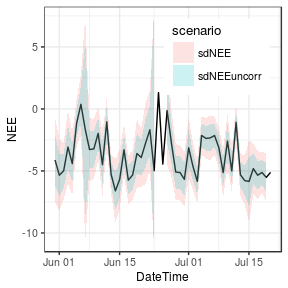
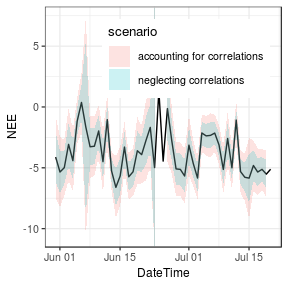
extend derivation in uncertainty aggregation vignette

diff --git a/vignettes/aggUncertainty.md b/vignettes/aggUncertainty.md
@@ -1,168 +1,215 @@
-Aggregating uncertainty to daily and annual values
-==================================================
+---
+output: 
+  rmarkdown::html_vignette:
+    keep_md: true
+vignette: >
+  %\VignetteEngine{knitr::rmarkdown_notangle}
+  %\VignetteIndexEntry{typical use case}
+  %\usepackage[UTF-8]{inputenc}
+---
 
-Example setup
--------------
 
-We start with half-hourly *u*<sub>\*</sub>-filtered and gap-filled
-NEE\_f values. For simplicity this example uses data provided with the
-package and omits *u*<sub>\*</sub> threshold detection but rather
-applies a user-specified threshold.
 
-With option `FillAll = TRUE`, an uncertainty, specifically the standard
-deviation, of the flux is estimated for each record during gapfilling
-and stored in variable `NEE_uStar_fsd`.
 
-    library(REddyProc)
-    library(dplyr)
-    EddyDataWithPosix <- Example_DETha98 %>% 
-      filterLongRuns("NEE") %>% 
-      fConvertTimeToPosix('YDH',Year = 'Year',Day = 'DoY', Hour = 'Hour')
-    EProc <- sEddyProc$new(
-      'DE-Tha', EddyDataWithPosix, c('NEE','Rg','Tair','VPD', 'Ustar'))
-    EProc$sMDSGapFillAfterUstar('NEE', uStarTh = 0.3, FillAll = TRUE)
-    results <- EProc$sExportResults() 
-    summary(results$NEE_uStar_fsd)
 
-    ##     Min.  1st Qu.   Median     Mean  3rd Qu.     Max. 
-    ##  0.03535  1.69960  2.32796  2.74246  3.44417 24.55782
 
+
+
+# Aggregating uncertainty to daily and annual values
+
+## Example setup
+We start with half-hourly $u_*$-filtered and gap-filled NEE_f values. 
+For simplicity this example uses data provided with the package and omits
+$u_*$ threshold detection but rather applies a user-specified threshold.
+
+With option `FillAll = TRUE`, an uncertainty, specifically the standard deviation,
+of the flux is estimated for each 
+record during gapfilling and stored in variable `NEE_uStar_fsd`. 
+
+
+```r
+library(REddyProc)
+library(dplyr)
+EddyDataWithPosix <- Example_DETha98 %>% 
+  filterLongRuns("NEE") %>% 
+  fConvertTimeToPosix('YDH',Year = 'Year',Day = 'DoY', Hour = 'Hour')
+EProc <- sEddyProc$new(
+  'DE-Tha', EddyDataWithPosix, c('NEE','Rg','Tair','VPD', 'Ustar'))
+EProc$sMDSGapFillAfterUstar('NEE', uStarTh = 0.3, FillAll = TRUE)
+results <- EProc$sExportResults() 
+summary(results$NEE_uStar_fsd)
+```
+
+```
+##     Min.  1st Qu.   Median     Mean  3rd Qu.     Max. 
+##  0.03535  1.69960  2.32796  2.74246  3.44417 24.55782
+```
 We can inspect, how the uncertainty scales with the flux magnitude.
 
-    plot( NEE_uStar_fsd ~ NEE_uStar_fall, slice(results, sample.int(nrow(results),400)))
+```r
+plot( NEE_uStar_fsd ~ NEE_uStar_fall, slice(results, sample.int(nrow(results),400)))
+```
 
-![](aggUncertainty_files/figure-markdown_strict/unnamed-chunk-3-1.png)
+![](aggUncertainty_files/figure-html/unnamed-chunk-3-1.png)<!-- -->
 
-Wrong aggregation without correlations
---------------------------------------
+## Wrong aggregation without correlations
+With neglecting correlations among records, the uncertainty of the mean annual
+flux is computed by adding the variances. 
+The mean is computed by $m = \sum{x_i}/n$. 
+And hence its standard deviation by 
+$sd(m) = \sqrt{Var(m)}= \sqrt{\sum{Var(x_i)}/n^2} = \sqrt{n \bar{\sigma^2}/n^2} = \bar{\sigma^2}/\sqrt{n}$. 
+This results in an aprroximate reduction of the average standard deviation 
+$\bar{\sigma^2}$ by $\sqrt{n}$.
 
-With neglecting correlations among records, the uncertainty of the mean
-annual flux is computed by adding the variances. The mean is computed by
-*m* = ∑*x*<sub>*i*</sub>/*n*. And hence its standard deviation by
-$sd(m) = \\sqrt{Var(m)}= \\sqrt{\\sum{Var(x\_i)}/n^2}$. This results in
-an aprroximate reduction of the standard deviation by $\\sqrt{n}$.
 
-    results %>% filter(NEE_uStar_fqc == 0) %>% summarise(
-      nRec = sum(is.finite(NEE_uStar_f))
-      , varSum = sum(NEE_uStar_fsd^2, na.rm = TRUE)
-      , seMean = sqrt(varSum) / nRec
-      , seMeanApprox = mean(NEE_uStar_fsd, na.rma = TRUE) / sqrt(nRec)
-      ) %>% select(nRec, seMean, seMeanApprox)
+```r
+results %>% filter(NEE_uStar_fqc == 0) %>% summarise(
+  nRec = sum(is.finite(NEE_uStar_f))
+  , varSum = sum(NEE_uStar_fsd^2, na.rm = TRUE)
+  , seMean = sqrt(varSum) / nRec
+  , seMeanApprox = mean(NEE_uStar_fsd, na.rma = TRUE) / sqrt(nRec)
+  ) %>% select(nRec, seMean, seMeanApprox)
+```
 
-    ##    nRec     seMean seMeanApprox
-    ## 1 10901 0.02988839   0.02650074
+```
+##    nRec     seMean seMeanApprox
+## 1 10901 0.02988839   0.02650074
+```
+Due to the large number of records, the estimated uncertainty is very low.
 
-Due to the large number of records, the estimated uncertainty is very
-low.
+## Considering correlations
 
-Considering correlations
-------------------------
+When observations are not independent of each other, 
+the formulas now become $Var(m) = s^2/n_{eff}$ where
+$s^2 = \frac{n_{eff}}{n(n_{eff}-1)} \sum_{i=1}^n \sigma_i^2$,
+and with the number of effective observations $n_{eff}$ decreasing with the
+autocorrelation among records (Bayley 1946, Zieba 2011).
 
-When observations are not independent of each other, the formulas now
-become
-*V**a**r*(*m*)=*V**a**r*(∑*x*<sub>*i*</sub>)/*n*<sub>*e**f**f*</sub> and
-$\\operatorname{Var}(\\sum{x\_i}) = \\frac{n\_{eff}}{n(n\_{eff}-1)} \\sum\_{i=1}^n \\sigma\_i^2$,
-with the number of effective observations *n*<sub>*e**f**f*</sub>
-decreasing with the autocorrelation among records (Bayley 1946, Zieba
-2011).
+The average standard deviation $\sqrt{\bar{\sigma^2_i}}$ 
+now approximately decreases only by about 
+$\sqrt{n_{eff}}$:
 
-The standard deviation now approximately decreases only by
-$\\sqrt{n\_{eff}}$.
+$$
+Var(m) = \frac{s^2}{n_{eff}} 
+= \frac{\frac{n_{eff}}{n(n_{eff}-1)} \sum_{i=1}^n \sigma_i^2}{n_{eff}}
+= \frac{1}{n(n_{eff}-1)} \sum_{i=1}^n \sigma_i^2 \\
+= \frac{1}{n(n_{eff}-1)} n \bar{\sigma^2_i} = \frac{\bar{\sigma^2_i}}{(n_{eff}-1)} 
+$$
 
-First we need to quantify the error terms, i.e. model-data residuals.
-For all the records of good quality, we have an original measured value
-`NEE_uStar_orig` and modelled value from MDS gapfilling,
+First we need to quantify the error terms, i.e. model-data residuals. 
+For all the records of good quality, we have an original
+measured value `NEE_uStar_orig` and modelled value from MDS gapfilling, 
 `NEE_uStar_fall`. The residual of bad-quality data is set to missing.
 
-    results <- EProc$sExportResults() %>% 
-      mutate(
-        resid = ifelse(NEE_uStar_fqc == 0, NEE_uStar_orig - NEE_uStar_fall, NA )
-      )
+
+```r
+results <- EProc$sExportResults() %>% 
+  mutate(
+    resid = ifelse(NEE_uStar_fqc == 0, NEE_uStar_orig - NEE_uStar_fall, NA )
+  )
+```
 
 Now we can inspect the the autocorrelation of the errors.
 
-    acf(results$resid, na.action = na.pass, main = "")
+```r
+acf(results$resid, na.action = na.pass, main = "")
+```
 
-![](aggUncertainty_files/figure-markdown_strict/unnamed-chunk-6-1.png)
+![](aggUncertainty_files/figure-html/unnamed-chunk-6-1.png)<!-- -->
 
-The empricical autocorrelation function shows strong positive
-autocorrelation in residuals up to a lag of 10 records.
+The empricical autocorrelation function shows strong positive autocorrelation 
+in residuals up to a lag of 10 records.
 
-Computation of effective number of observations is provided by function
-`computeEffectiveNumObs` from package `lognorm` based on the emprical
+Computation of effective number of observations is provided by function 
+`computeEffectiveNumObs` from package `lognorm` based on the emprical 
 autocorrelation function for given model-data residuals.
 
-    library(lognorm)
-    autoCorr <- computeEffectiveAutoCorr(results$resid)
-    nEff <- computeEffectiveNumObs(results$resid, na.rm = TRUE)
-    c( nEff = nEff, nObs = sum(is.finite(results$resid)))
 
-    ##      nEff      nObs 
-    ##  3870.283 10901.000
+```r
+library(lognorm)
+autoCorr <- computeEffectiveAutoCorr(results$resid)
+nEff <- computeEffectiveNumObs(results$resid, na.rm = TRUE)
+c( nEff = nEff, nObs = sum(is.finite(results$resid)))
+```
 
-We see that the effective number of observations is only about a third
-of the number of observations.
+```
+##      nEff      nObs 
+##  3870.283 10901.000
+```
 
-Now we can use the formulas for the sum and the mean of correlated
-normally distributed variables to compute the uncertainty of the mean.
+We see that the effective number of observations is only about a third of the 
+number of observations.
 
-    results %>% filter(NEE_uStar_fqc == 0) %>% summarise(
-      nRec = sum(is.finite(NEE_uStar_fsd))
-      , varMean = sum(NEE_uStar_fsd^2, na.rm = TRUE) / nRec / (!!nEff - 1)
-      , seMean = sqrt(varMean) 
-      #, seMean2 = sqrt(mean(NEE_uStar_fsd^2, na.rm = TRUE)) / sqrt(!!nEff - 1)
-      , seMeanApprox = mean(NEE_uStar_fsd, na.rm = TRUE) / sqrt(!!nEff - 1)
-      ) %>% select(seMean, seMeanApprox)
+Now we can use the formulas for the sum and the mean of correlated normally 
+distributed variables to compute the uncertainty of the mean.
 
-    ##       seMean seMeanApprox
-    ## 1 0.05016727   0.04448115
 
-Daily aggregation
------------------
+```r
+results %>% filter(NEE_uStar_fqc == 0) %>% summarise(
+  nRec = sum(is.finite(NEE_uStar_fsd))
+  , varMean = sum(NEE_uStar_fsd^2, na.rm = TRUE) / nRec / (!!nEff - 1)
+  , seMean = sqrt(varMean) 
+  #, seMean2 = sqrt(mean(NEE_uStar_fsd^2, na.rm = TRUE)) / sqrt(!!nEff - 1)
+  , seMeanApprox = mean(NEE_uStar_fsd, na.rm = TRUE) / sqrt(!!nEff - 1)
+  ) %>% select(seMean, seMeanApprox)
+```
+
+```
+##       seMean seMeanApprox
+## 1 0.05016727   0.04448115
+```
+
+## Daily aggregation
 
 When aggregating daily respiration, the same principles hold.
 
-However, when computing the number of effective observations, we
-recommend using the empirical autocorrelation function estimated on
-longer time series of residuals instead of estimating them each day
-(`autoCorr` computed above).
+However, when computing the number of effective observations, 
+we recommend using the empirical autocorrelation function
+estimated on longer time series of residuals (`autoCorr` computed above) 
+in `computeEffectiveNumObs` instead of estimating them 
+from the residuals of each day.
 
-    results <- results %>% mutate(
-      DateTime = EddyDataWithPosix$DateTime
-      , DoY = as.POSIXlt(DateTime - 15*60)$yday # midnight belongs to the previous
-    )
 
-    aggDay <- results %>% group_by(DoY) %>% 
-      summarise(
-        DateTime = first(DateTime)
-        , nRec = sum( NEE_uStar_fqc == 0, na.rm = TRUE)
-        , nEff = computeEffectiveNumObs(
-           resid, effAcf = !!autoCorr, na.rm = TRUE)
-        , NEE = mean(NEE_uStar_f, na.rm = TRUE)
-        , sdNEE = if (nEff == 0) NA_real_ else sqrt(
-          mean(NEE_uStar_fsd^2, na.rm = TRUE) / (nEff - 1)) 
-        , sdNEEuncorr = if (nRec == 0) NA_real_ else sqrt(
-           mean(NEE_uStar_fsd^2, na.rm = TRUE) / (nRec - 1))
-      )
-    aggDay
+```r
+results <- results %>% mutate(
+  DateTime = EddyDataWithPosix$DateTime
+  , DoY = as.POSIXlt(DateTime - 15*60)$yday # midnight belongs to the previous
+)
+```
 
-    ## # A tibble: 365 x 7
-    ##      DoY DateTime             nRec  nEff      NEE  sdNEE sdNEEuncorr
-    ##    <int> <dttm>              <int> <dbl>    <dbl>  <dbl>       <dbl>
-    ##  1     0 1998-01-01 00:30:00    21  7.87  0.124    0.988       0.579
-    ##  2     1 1998-01-02 00:30:00     7  3.66  0.00610  1.57        1.05 
-    ##  3     2 1998-01-03 00:30:00     0  0.    0.0484  NA          NA    
-    ##  4     3 1998-01-04 00:30:00     0  0.    0.303   NA          NA    
-    ##  5     4 1998-01-05 00:30:00    28 10.9   0.195    0.851       0.515
-    ##  6     5 1998-01-06 00:30:00    48 18.0   0.926    0.615       0.370
-    ##  7     6 1998-01-07 00:30:00    48 18.0  -0.337    0.566       0.340
-    ##  8     7 1998-01-08 00:30:00    46 17.2  -0.139    0.541       0.325
-    ##  9     8 1998-01-09 00:30:00    45 16.8   0.614    0.482       0.289
-    ## 10     9 1998-01-10 00:30:00    36 13.5   0.242    0.646       0.386
-    ## # ... with 355 more rows
+```r
+aggDay <- results %>% group_by(DoY) %>% 
+  summarise(
+    DateTime = first(DateTime)
+    , nRec = sum( NEE_uStar_fqc == 0, na.rm = TRUE)
+    , nEff = computeEffectiveNumObs(
+       resid, effAcf = !!autoCorr, na.rm = TRUE)
+    , NEE = mean(NEE_uStar_f, na.rm = TRUE)
+    , sdNEE = if (nEff == 0) NA_real_ else sqrt(
+      mean(NEE_uStar_fsd^2, na.rm = TRUE) / (nEff - 1)) 
+    , sdNEEuncorr = if (nRec == 0) NA_real_ else sqrt(
+       mean(NEE_uStar_fsd^2, na.rm = TRUE) / (nRec - 1))
+  )
+aggDay
+```
 
-![](aggUncertainty_files/figure-markdown_strict/uncBand-1.png)
+```
+## # A tibble: 365 x 7
+##      DoY DateTime             nRec  nEff      NEE  sdNEE sdNEEuncorr
+##    <int> <dttm>              <int> <dbl>    <dbl>  <dbl>       <dbl>
+##  1     0 1998-01-01 00:30:00    21  7.87  0.124    0.988       0.579
+##  2     1 1998-01-02 00:30:00     7  3.66  0.00610  1.57        1.05 
+##  3     2 1998-01-03 00:30:00     0  0     0.0484  NA          NA    
+##  4     3 1998-01-04 00:30:00     0  0     0.303   NA          NA    
+##  5     4 1998-01-05 00:30:00    28 10.9   0.195    0.851       0.515
+##  6     5 1998-01-06 00:30:00    48 18.0   0.926    0.615       0.370
+##  7     6 1998-01-07 00:30:00    48 18.0  -0.337    0.566       0.340
+##  8     7 1998-01-08 00:30:00    46 17.2  -0.139    0.541       0.325
+##  9     8 1998-01-09 00:30:00    45 16.8   0.614    0.482       0.289
+## 10     9 1998-01-10 00:30:00    36 13.5   0.242    0.646       0.386
+## # … with 355 more rows
+```
+![](aggUncertainty_files/figure-html/uncBand-1.png)<!-- -->
 
-The confidence bounds (+-1.96 stdDev) computed with accounting for
-correlations in this case are about twice the ones computed with
-neglecting correlations.
+The confidence bounds (+-1.96 stdDev) computed with accounting for correlations 
+in this case are about twice the ones computed with neglecting correlations.
